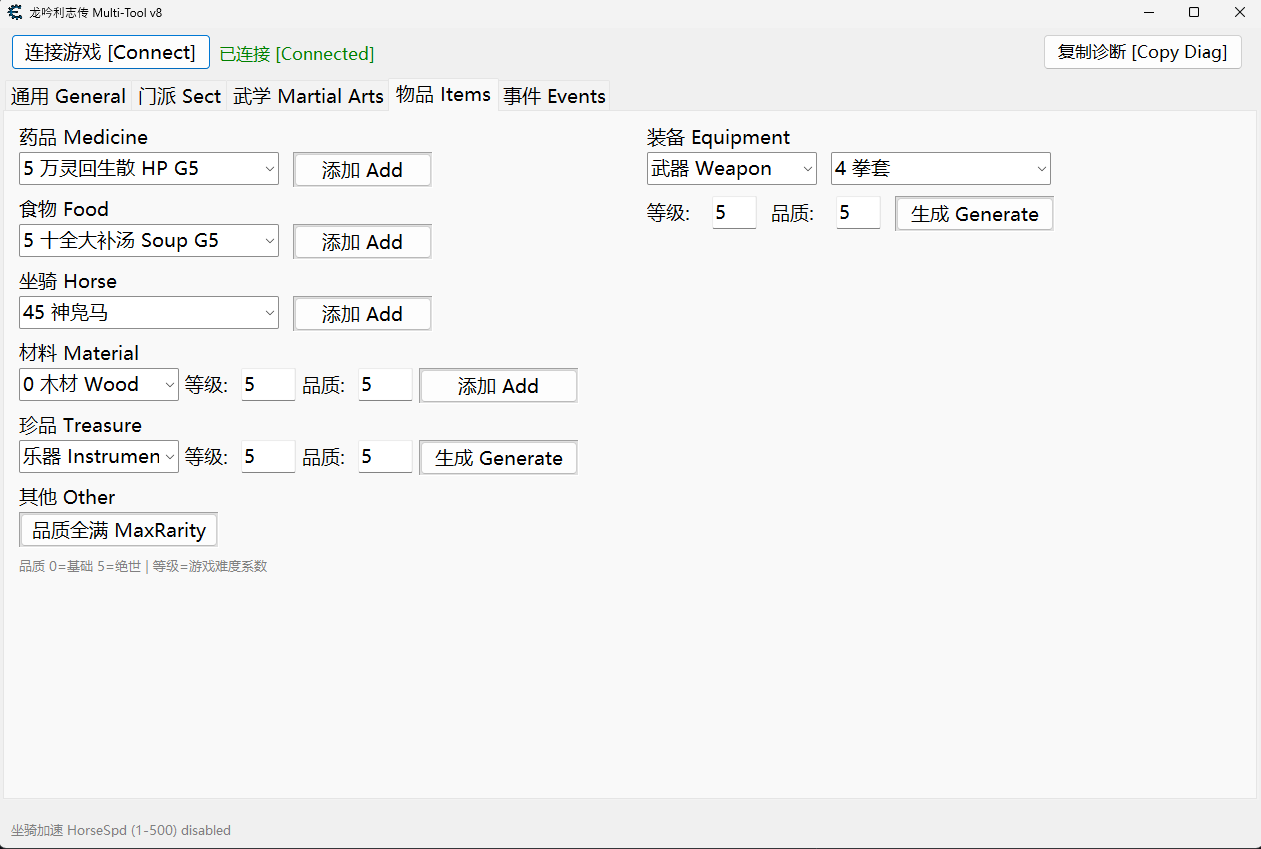
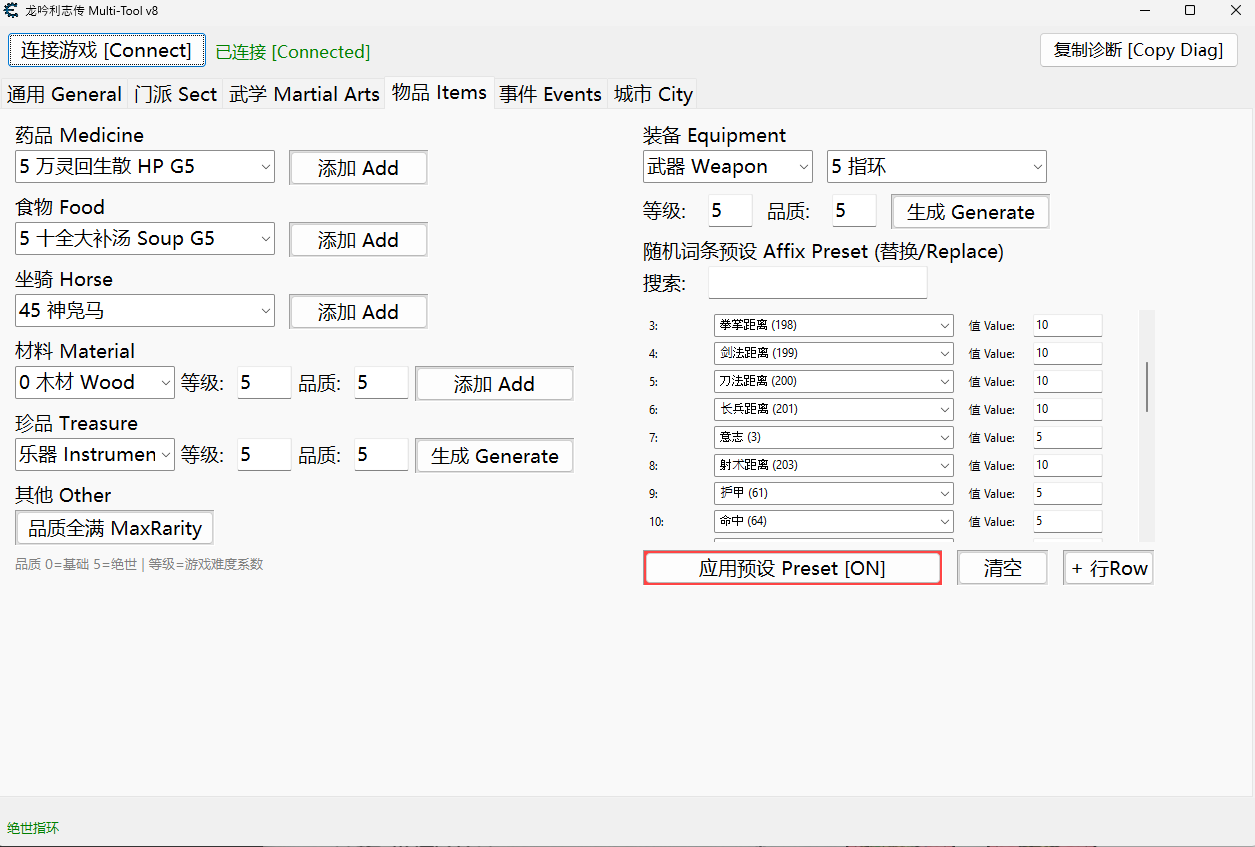
Affix preset scroll + crash hardening; City road/building docs
Items / Affix preset:
- Scrollable affix rows via embedded borderless TForm (manual sizing +
  manual VertScrollBar.Range, since CE Lua silently rejects Align/
  AutoScroll); fixed-column row layout so rows can't misalign.
- Crash hardening for "generate weapon" path: GC-root the freshly
  generated item (il2cpp_gchandle_new) across the multi-step affix
  injection so it can't be collected mid-sequence, row validation
  (statID 0-214, finite values), and CountValueAndWeight recompute so
  the inventory UI renders a consistent item. Fixes a native crash in
  ItemIconController.AutoSetName.

City tab:
- Per-tile road level edit (改本格道路等级), enabled only when the
  selected tile has a road; removed unstable build/delete road.

Docs:
- README: add City screenshot + feature bullets (EN/中文), document
  affix preset; refresh items.png, add city.png.
- Remove unrelated stray screenshots from repo.

diff --git a/README.md b/README.md
@@ -17,13 +17,17 @@ A form-based Cheat Engine table for **LongYinLiZhiZhuan** (龙胤立志传), a m
 |-------|--------|
 | ![Items](screenshot/items.png) | ![Events](screenshot/event.png) |
 
+### City — building & road planner
+![City](screenshot/city.png)
+
 ## Features
 
 - **General**: Money, Sect Currency, Faction Contribution, Meteorite, Stat Caps, Talent Slots/Points, Fame, NPC Favor, Faction Affinity, Skill Limit, Combat/Living EXP%, Restore HP, Clear Injuries, Battle Speed, Enemy 1HP, Horse Speed, Dungeon Reveal, Infinite Stamina, Character Creation (Attribute/Fight/Living/Talent Points & Slots)
 - **Sect**: Member Limit, Sect-wide Talents/Prodigy/Loyalty/Skill Slots, Max Resources, No Cost, Instant Research/Buildings, Generate Hero
 - **Martial Arts**: 989 skills browser with sorting, filtering, dynamic stat columns, one-click book adding
-- **Items**: Medicine, Food, Horse, Materials, Equipment (with sub-type), Treasures, Max Rarity
+- **Items**: Medicine, Food, Horse, Materials, Equipment (with sub-type), Treasures, Max Rarity, **Affix Preset** — replace a generated equipment's random affixes with your own chosen stats (searchable stat picker, scrollable rows)
 - **Events**: 106 events with category filter, search, difficulty control, Spawn Here / Spawn World Event
+- **City**: Per-area tile grid — swap/place buildings with a chosen level, delete buildings, upgrade all roads in an area, edit a single road's level on the selected tile
 
 ## Requirements
 
@@ -97,8 +101,9 @@ This project is provided for educational and personal use. Use at your own risk.
 - **通用**：银两、门派贡献、外门贡献、陨铁、属性上限、天赋槽/天赋点、声望、NPC好感、门派好感、武学上限、武学/生活经验倍率、恢复生命、清除伤势、战斗加速、敌人1血、坐骑加速、迷宫全开、无限耐力、角色创建（属性点/武学点/生活点/天赋点和天赋槽）
 - **门派**：人数上限、全派天赋点/天赋槽/天才+博学/忠诚满/武学槽满、资源填满、无消耗、瞬间研究/建筑、生成角色
 - **武学**：989种武学浏览器，支持排序、筛选、动态属性列、一键添加秘籍
-- **物品**：药品、食物、坐骑、材料、装备（含子类型）、珍品、品质全满
+- **物品**：药品、食物、坐骑、材料、装备（含子类型）、珍品、品质全满、**随机词条预设** — 将生成装备的随机词条替换为自选属性（可搜索属性、可滚动行）
 - **事件**：106个事件，分类筛选、搜索、自定义难度、生成到此处/生成世界事件
+- **城市**：分区域地块网格 — 替换/放置建筑并设置等级、拆除建筑、升级全区道路、修改所选地块单条道路的等级
 
 ## 使用要求
 
